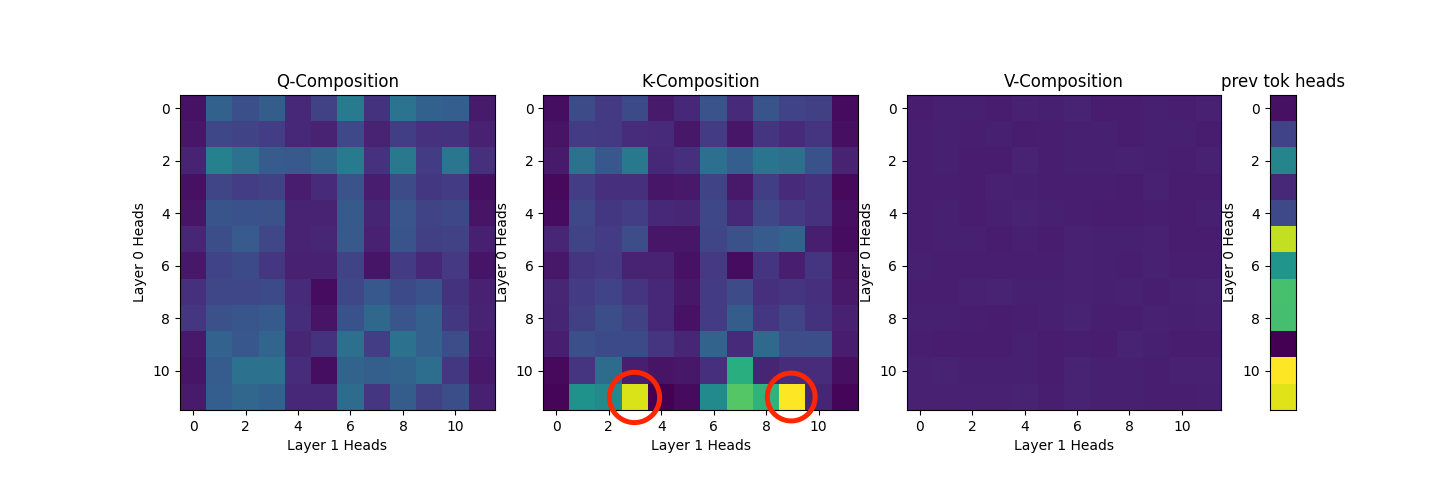
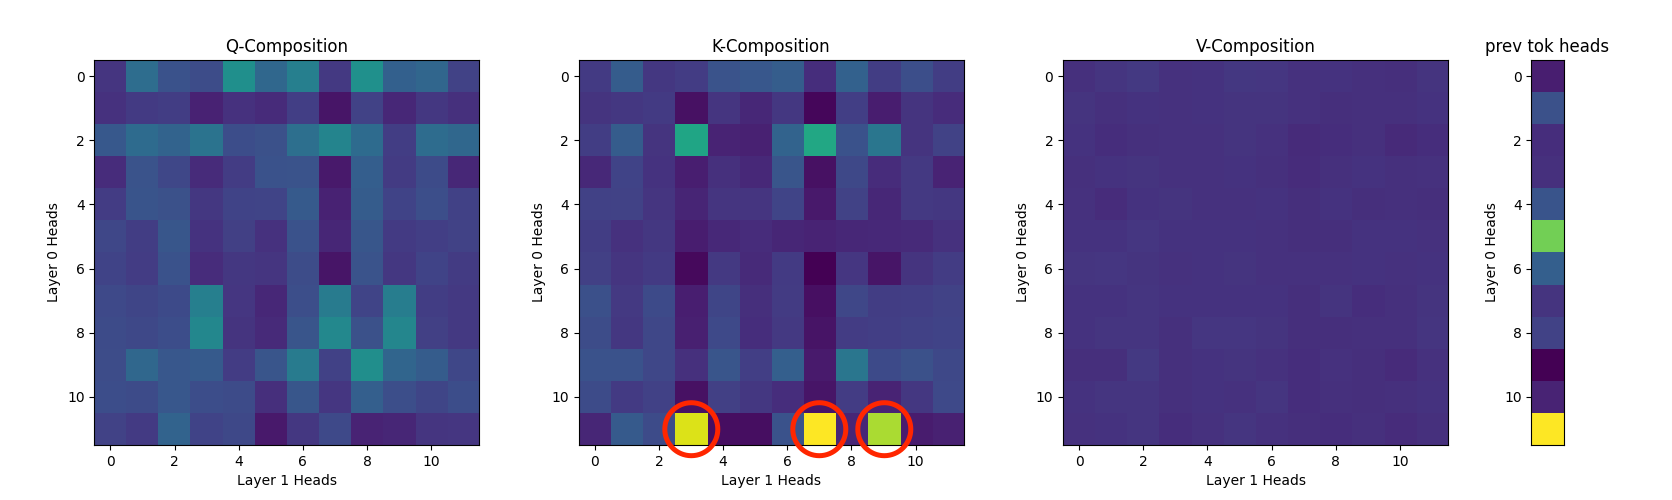
No pos layernorm

diff --git a/analysis/utils.py b/analysis/utils.py
@@ -13,7 +13,7 @@ def get_subtract_avg_matrix(dim):
     return z
 
 
-def get_weights_for_head(weights, layer, head, n_heads, d_model):
+def get_weights_for_head(weights, layer, head, n_heads, d_model, apply_layernorm=True):
     """ Get the weights for a single head. """
     d_head = d_model // n_heads
 
@@ -34,16 +34,17 @@ def get_weights_for_head(weights, layer, head, n_heads, d_model):
 
     p_e = weights[f'b{layer}.pos.pe'].numpy()
 
-    # roll layernorm into w_q, w_k, w_v
-    M = get_subtract_avg_matrix(d_model)
-    w_q_h = w_q_h @ M
-    w_q_h = w_q_h * lnw.T
+    if apply_layernorm:
+        # roll layernorm into w_q, w_k, w_v
+        M = get_subtract_avg_matrix(d_model)
+        w_q_h = w_q_h @ M
+        w_q_h = w_q_h * lnw.T
 
-    w_k_h = w_k_h @ M
-    w_k_h = w_k_h * lnw.T
+        w_k_h = w_k_h @ M
+        w_k_h = w_k_h * lnw.T
 
-    w_v_h = w_v_h @ M
-    w_v_h = w_v_h * lnw.T
+        w_v_h = w_v_h @ M
+        w_v_h = w_v_h * lnw.T
 
     return {
         # 'w_e': w_e,

diff --git a/analysis/two_layer.py b/analysis/two_layer.py
@@ -51,7 +51,7 @@ def v_composition(h_0, h_1):
 if __name__=='__main__':
     enc = tiktoken.get_encoding("gpt2")
 
-    weights = torch.load("../from_odin/big_2layer_drop_34000.pt", map_location='cpu')
+    weights = torch.load("../from_odin/big_2layer_long_108000.pt", map_location='cpu')
 
     for weight in weights:
         print(weight, weights[weight].shape)
@@ -64,7 +64,8 @@ if __name__=='__main__':
     for h in range(n_heads):
         print()
         print('layer 0, head', h)
-        h_w = get_weights_for_head(weights, layer=0, head=h, n_heads=n_heads, d_model=d_model)
+        h_w = get_weights_for_head(weights, layer=0, head=h,
+            n_heads=n_heads, d_model=d_model, apply_layernorm=False)
         avg = positional_attention_for_head(h_w, plot=False)
 
         pos.append(avg[1]) # previous token

diff --git a/README.md b/README.md
@@ -1,4 +1,4 @@
-# circuits
+# Transformer Circuits
 ![induction](analysis/assets/induction.png)
 
 Implementation of Anthropic's transformer circuits paper
@@ -17,7 +17,7 @@ circuits
 |   |-- one_layer.md                One layer results
 |   |-- one_layer.py                One layer circuits, \
 |   |                               skip-trigrams, eigenvalues
-|   |-- two_layer.py                k-composition
+|   |-- two_layer.py                q, k, v composition
 |   |-- utils.py                    Tools to extract head weights
 |   |-- zero_layer_chars.py         Learn bigram char stats
 |-- circuits                        Trains attn-only models

diff --git a/analysis/two_layer.md b/analysis/two_layer.md
@@ -3,4 +3,4 @@
 ### Q, K and V Composition
 
 ![QKV Composition](assets/induction_heads.png)
-We see from the array on the right that there are 3 layer-0 previous token heads (heads 10, 11, and 5 in decreasing order of importance). Layer-1 heads 3 and 9 both k-compose with layer-0 head 11.
+We see from the array on the right that layer-0 head 11 is a previous token head. Layer-1 heads 3, 7, and 9 k-compose with this previous token head.
